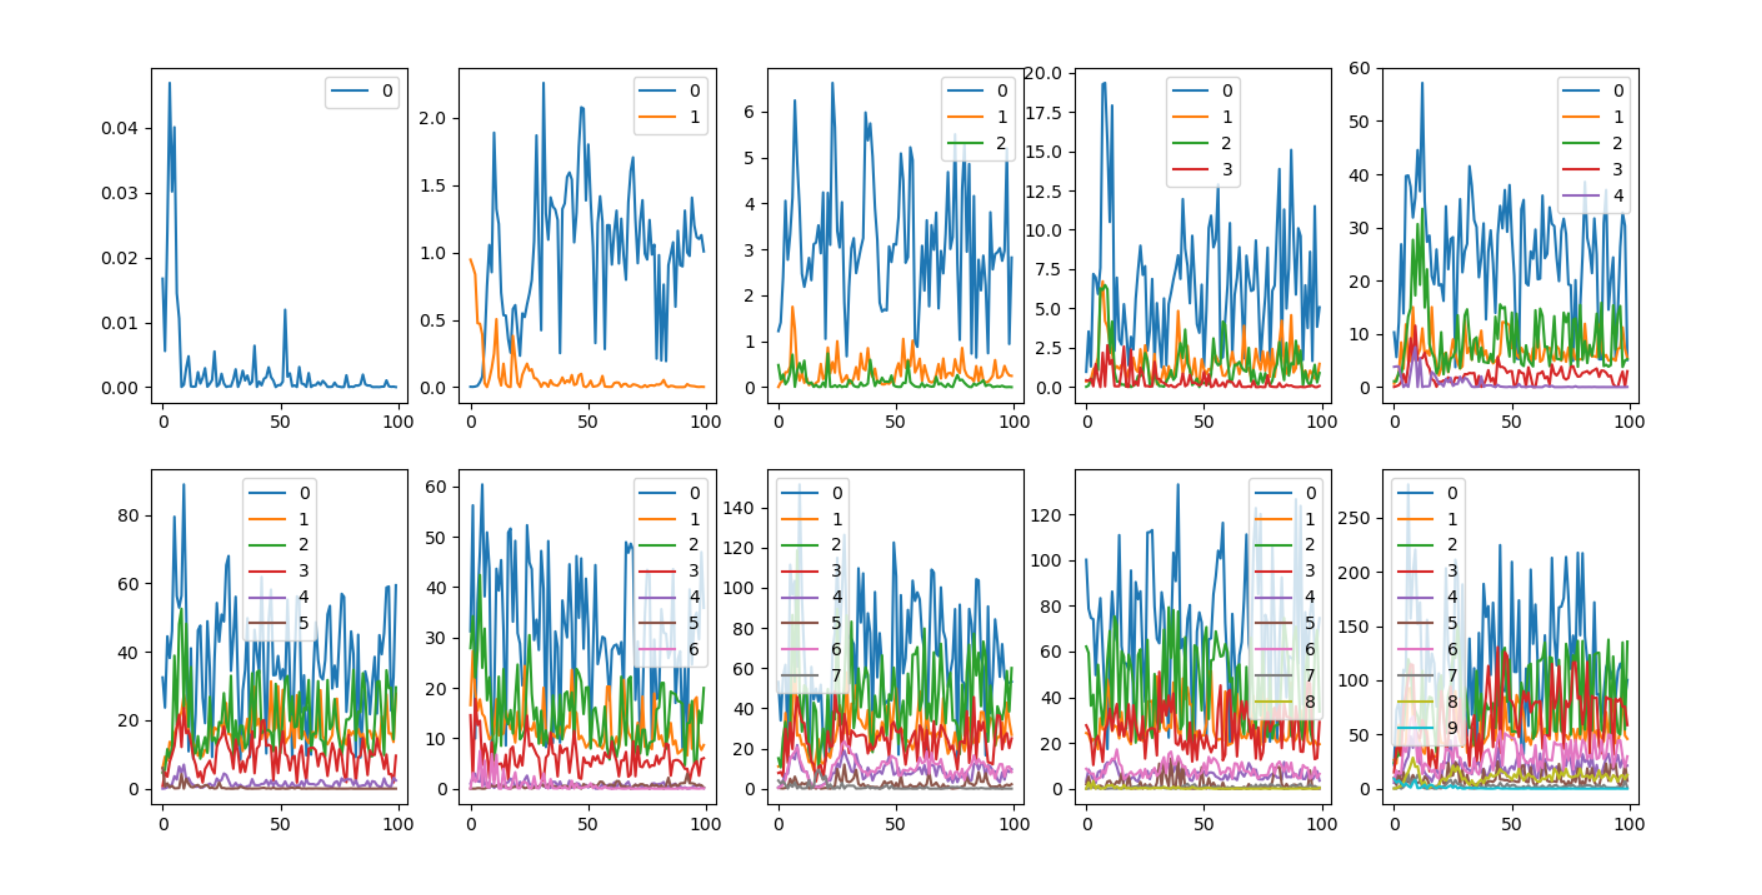
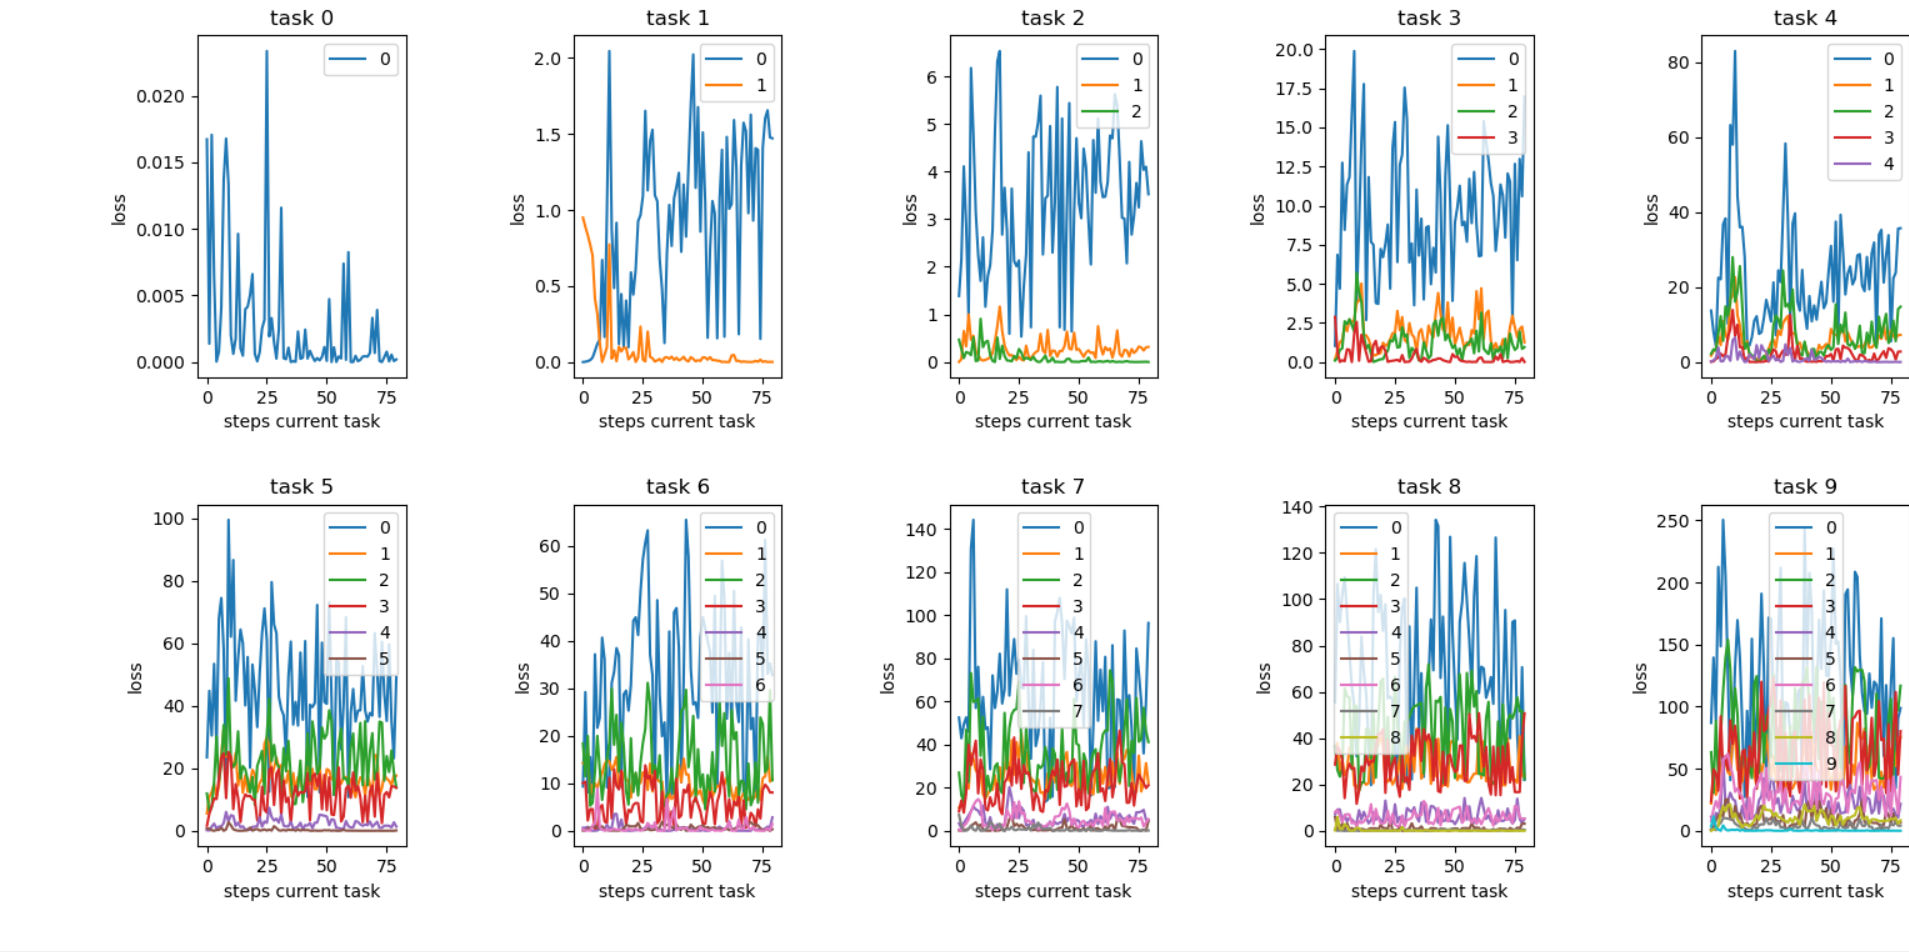
accuracy
added one that just plots the accuracy

diff --git a/src/CF_MLP.py b/src/CF_MLP.py
@@ -38,17 +38,22 @@ if __name__ == "__main__":
     network_mlp = mlp()
     optimizer = optim.Adam(network_mlp.parameters(),lr=0.001)
 
-    EPOCHS = 100 
+    EPOCHS = 80 
     tasks = 10
+    number_of_tests = 20
+
 
     fig,axis = plt.subplots(2,5)
+    fig2,axis2 = plt.subplots(2,5)
+    axis2 = axis2.flatten()
     axis = axis.flatten()
 
     for task_num in tqdm(range(tasks),desc="tasks",unit="tasks",ascii=True):
         
         x_plot = [[] for o in range(task_num+1)]
         y_plot = [[] for o in range(task_num+1)]
-        
+        x_plot2 = [[] for o in range(task_num+1)]
+        y_plot2 = [[] for o in range(task_num+1)]
 
         for i in range(EPOCHS):
             optimizer.zero_grad()
@@ -58,19 +63,45 @@ if __name__ == "__main__":
             loss.backward()
             optimizer.step()
             
-            
+
+
             for j in range(task_num+1):
                 input,label = dataset.online_sample(j)
                 output = network_mlp(input)
                 loss = nn.MSELoss()(output,torch.tensor([label],dtype=torch.float))
 
+                x_plot2[j].append(i)
+                y_plot2[j].append(loss.detach().item())
+            
+            for j in range(task_num+1):
+                
+                hits_and_missed = []
+                for _ in range(number_of_tests):
+                    input,label = dataset.online_sample(j)
+                    output = network_mlp(input)
+                    loss = nn.MSELoss()(output,torch.tensor([label],dtype=torch.float))
+                    if(np.around(output.detach().item()) == label):
+                        hits_and_missed.append(1)
+                    else:
+                        hits_and_missed.append(0)
+
                 x_plot[j].append(i)
-                y_plot[j].append(loss.detach().item())
+                accuracy = (np.sum(hits_and_missed)/len(hits_and_missed))*100
+                y_plot[j].append(accuracy)
             
         for index in range(task_num+1):
             axis[task_num].plot(x_plot[index],y_plot[index],label=str(index))
+            axis2[task_num].plot(x_plot2[index],y_plot2[index],label=str(index))
         
+        axis2[task_num].legend()
         axis[task_num].legend()
-        
-
+        axis2[task_num].set_ylabel("loss")
+        axis2[task_num].set_xlabel("steps current task")
+        axis2[task_num].set_title("task "+str(task_num))
+        axis[task_num].set_ylabel("accuracy")
+        axis[task_num].set_xlabel("steps current task")
+        axis[task_num].set_title("task "+str(task_num))
+    
+    fig.tight_layout(pad=0)
+    fig2.tight_layout(pad=0)
     plt.show()

diff --git a/README.md b/README.md
@@ -3,4 +3,9 @@
 After a task has been learned for n amount of steps, we switch to another task to learn never to repeat the same task.
 In the plot one can see the performance (in terms of MSE loss) of the previous tasks during the training of the current.
 The performance on older tasks decreases because of catastrophic forgetting.
+<br\>
+Loss different tasks
 <img src="https://github.com/MOVzeroOne/CatastrophicForgettingMLP/blob/master/plot.PNG"> 
+<br\>
+Accuracy different tasks
+<img src="https://github.com/MOVzeroOne/CatastrophicForgettingMLP/blob/master/plot1.PNG"> 
